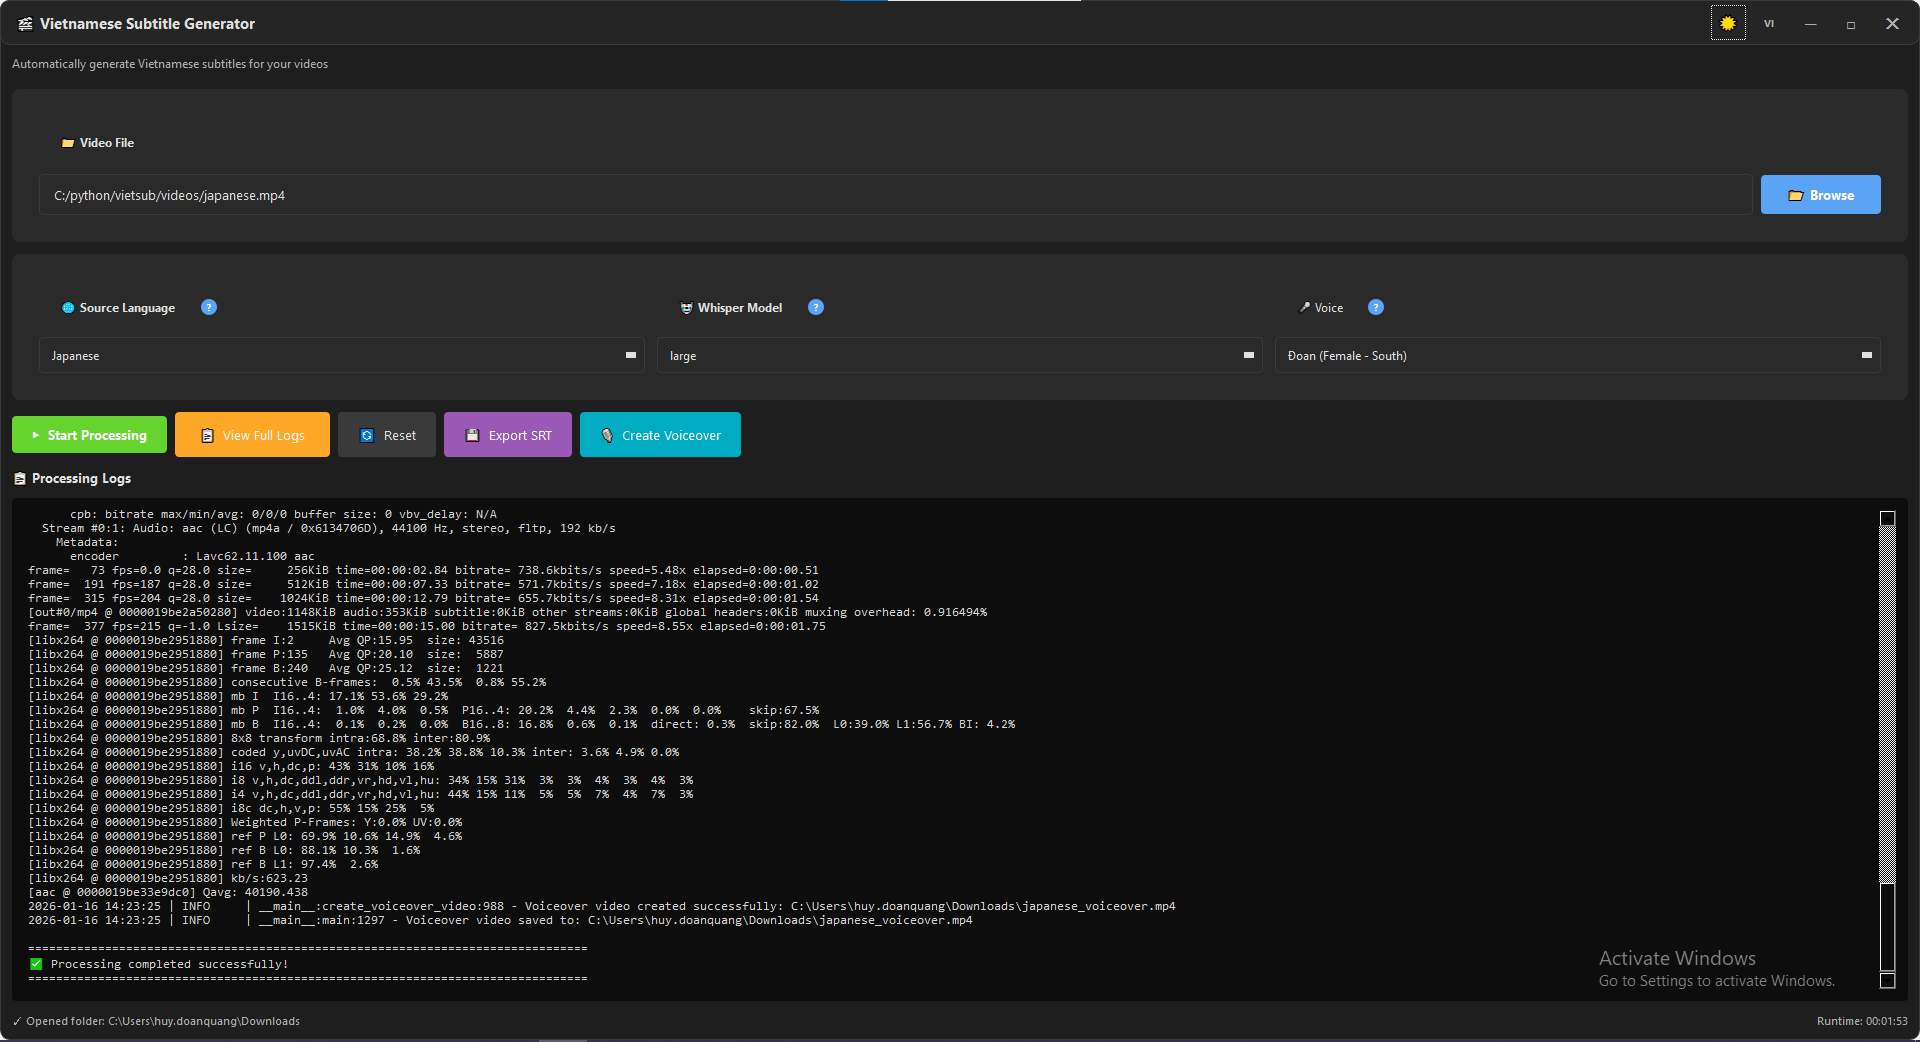
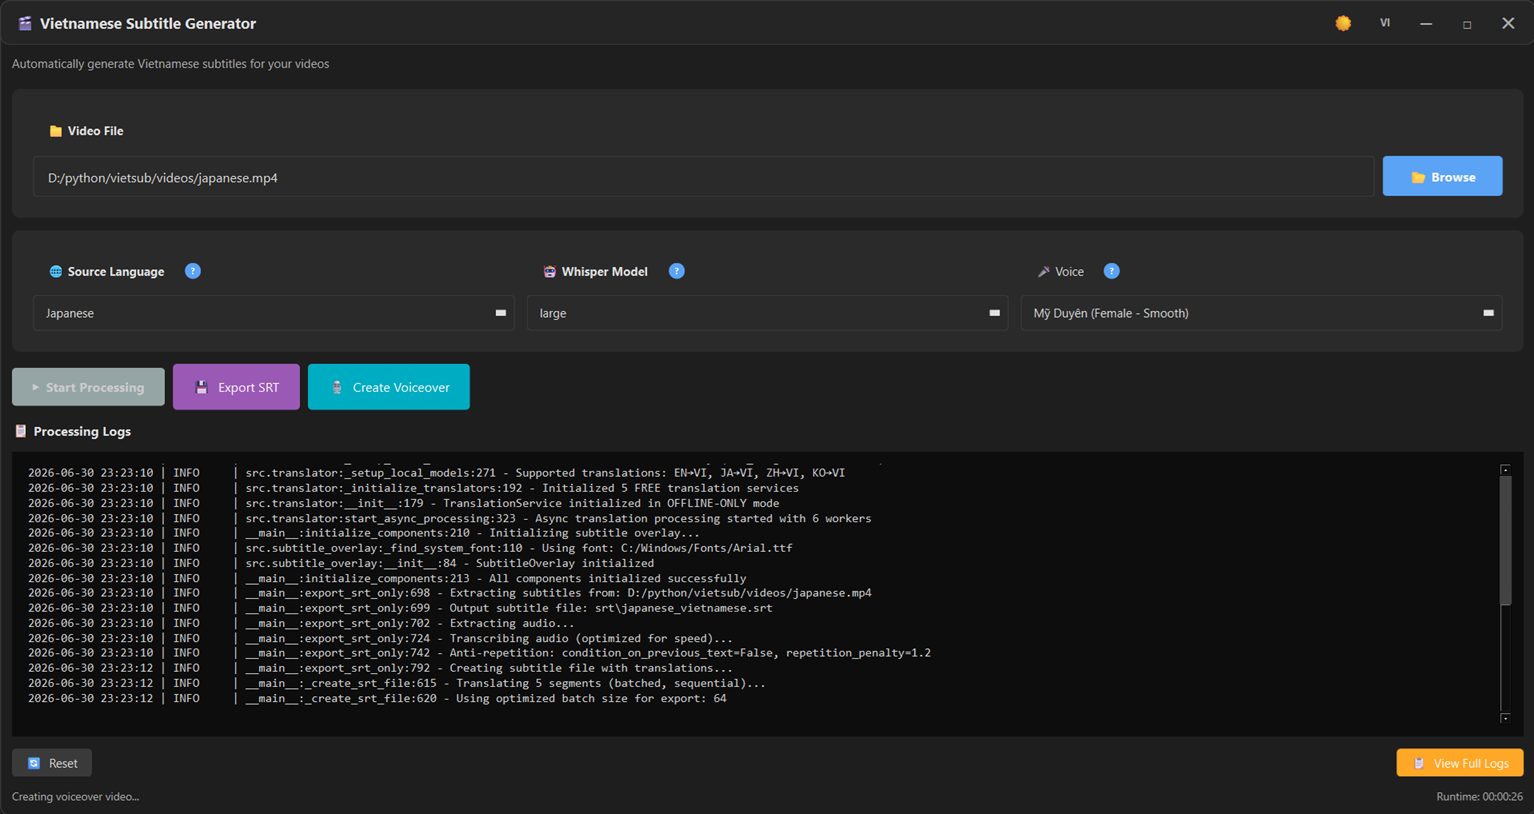
fix: correct whisper result unpacking, temp file race, and __DONE__ parser
- Fix crash in _on_audio_chunk by unpacking whisper result as
  (segments, info) instead of dict-style access (faster-whisper
  returns a generator tuple, not a dict)
- Fix temp file race condition in AudioProcessor by deferring
  cleanup to cleanup() instead of deleting immediately after
  callback (which causes race with async whisper processing)
- Fix __DONE__ message parser broken on Windows paths by using
  suffix-based colon search instead of split(':', 2)

diff --git a/src/audio_processor.py b/src/audio_processor.py
@@ -48,6 +48,9 @@ class AudioProcessor:
         self.audio_queue = queue.Queue(maxsize=100)
         self.processing_thread = None
         self.is_recording = False
+
+        # Track temp files for deferred cleanup (prevents race conditions)
+        self._temp_files = []
         self.is_paused = False
 
         # Audio buffer for chunk assembly
@@ -288,16 +291,13 @@ class AudioProcessor:
 
         # Trigger callback with audio file path
         if self.on_audio_chunk and temp_file:
+            self._temp_files.append(temp_file)
             try:
                 self.on_audio_chunk(temp_file)
             except Exception as e:
                 logger.error(f"Error in audio chunk callback: {e}")
-            finally:
-                # Cleanup temporary file
-                try:
-                    os.unlink(temp_file)
-                except:
-                    pass
+        # Note: temp file cleanup is deferred to cleanup() to prevent race
+        # conditions if the callback processes the file asynchronously.
 
         # Clear buffer
         self.audio_buffer.clear()
@@ -367,12 +367,20 @@ class AudioProcessor:
         self.on_silence_detected = on_silence_detected
 
     def cleanup(self):
-        """Cleanup PyAudio resources."""
+        """Cleanup PyAudio resources and temporary files."""
         self.stop_recording()
 
         if hasattr(self, "pyaudio_instance") and self.pyaudio_instance:
             self.pyaudio_instance.terminate()
             self.pyaudio_instance = None
+
+        # Cleanup any remaining temp files
+        for f in self._temp_files:
+            try:
+                os.unlink(f)
+            except Exception:
+                pass
+        self._temp_files.clear()
 
         logger.info("AudioProcessor cleanup completed")
 

diff --git a/app_tk.py b/app_tk.py
@@ -2620,9 +2620,16 @@ class AppTk(QMainWindow):
             while True:
                 msg = self.msg_queue.get_nowait()
                 if msg.startswith("__DONE__:"):
-                    parts = msg.split(":", 2)
-                    ok = parts[1] == "True"
-                    out = parts[2] if len(parts) > 2 else ""
+                    # Format: __DONE__:<True|False>:[optional_path]
+                    # Cannot use split(":", 2) because paths contain colons on Windows (e.g. C:\...)
+                    suffix = msg[len("__DONE__:"):]
+                    colon_pos = suffix.find(":")
+                    if colon_pos != -1:
+                        ok = suffix[:colon_pos] == "True"
+                        out = suffix[colon_pos + 1:]
+                    else:
+                        ok = suffix == "True"
+                        out = ""
                     if ok:
                         self.log.append("\n" + "=" * 80)
                         self.log.append(self.t("completed"))

diff --git a/main.py b/main.py
@@ -309,7 +309,7 @@ class VietnameseSubtitleGenerator:
         try:
             # Transcribe audio using Whisper
             start_time = time.time()
-            result = self.whisper_model.transcribe(
+            segments, info = self.whisper_model.transcribe(
                 audio_file_path,
                 language=self.config["whisper"].get("language", "auto"),
                 temperature=self.config["whisper"].get("temperature", 0.0),
@@ -320,9 +320,9 @@ class VietnameseSubtitleGenerator:
 
             transcription_time = time.time() - start_time
 
-            # Extract text
-            text = result["text"].strip()
-            detected_language = result.get("language", "unknown")
+            # Extract text from segments
+            text = "".join(segment.text for segment in segments).strip()
+            detected_language = info.language
 
             if text:
                 logger.info(f"Transcribed ({detected_language}): {text}")
